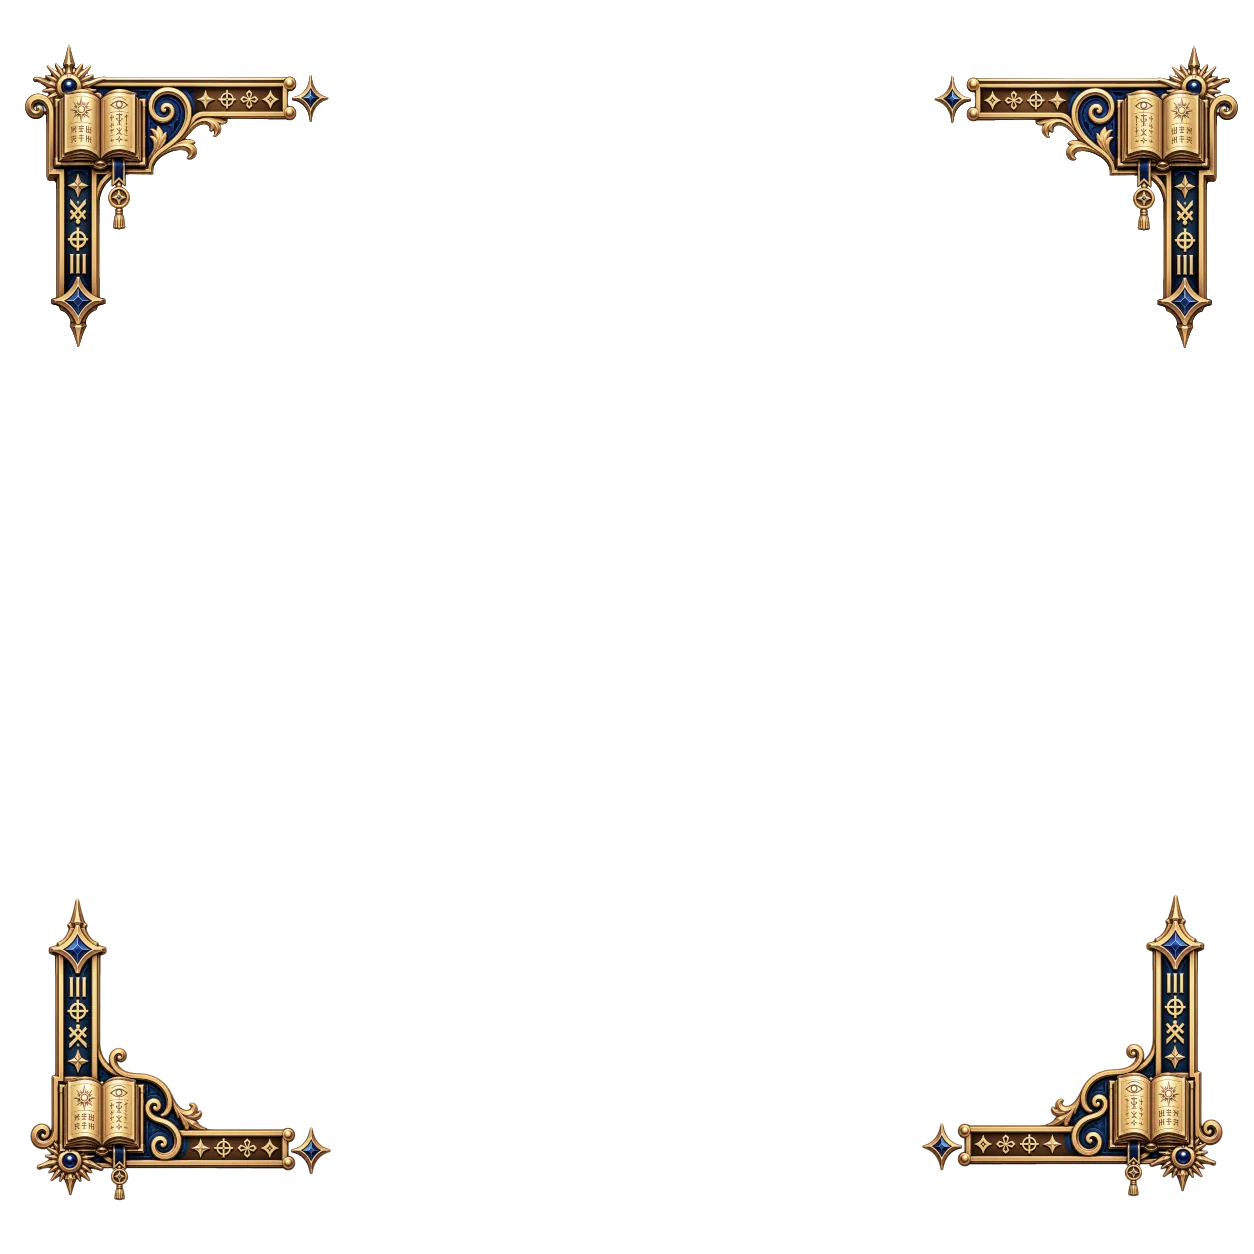
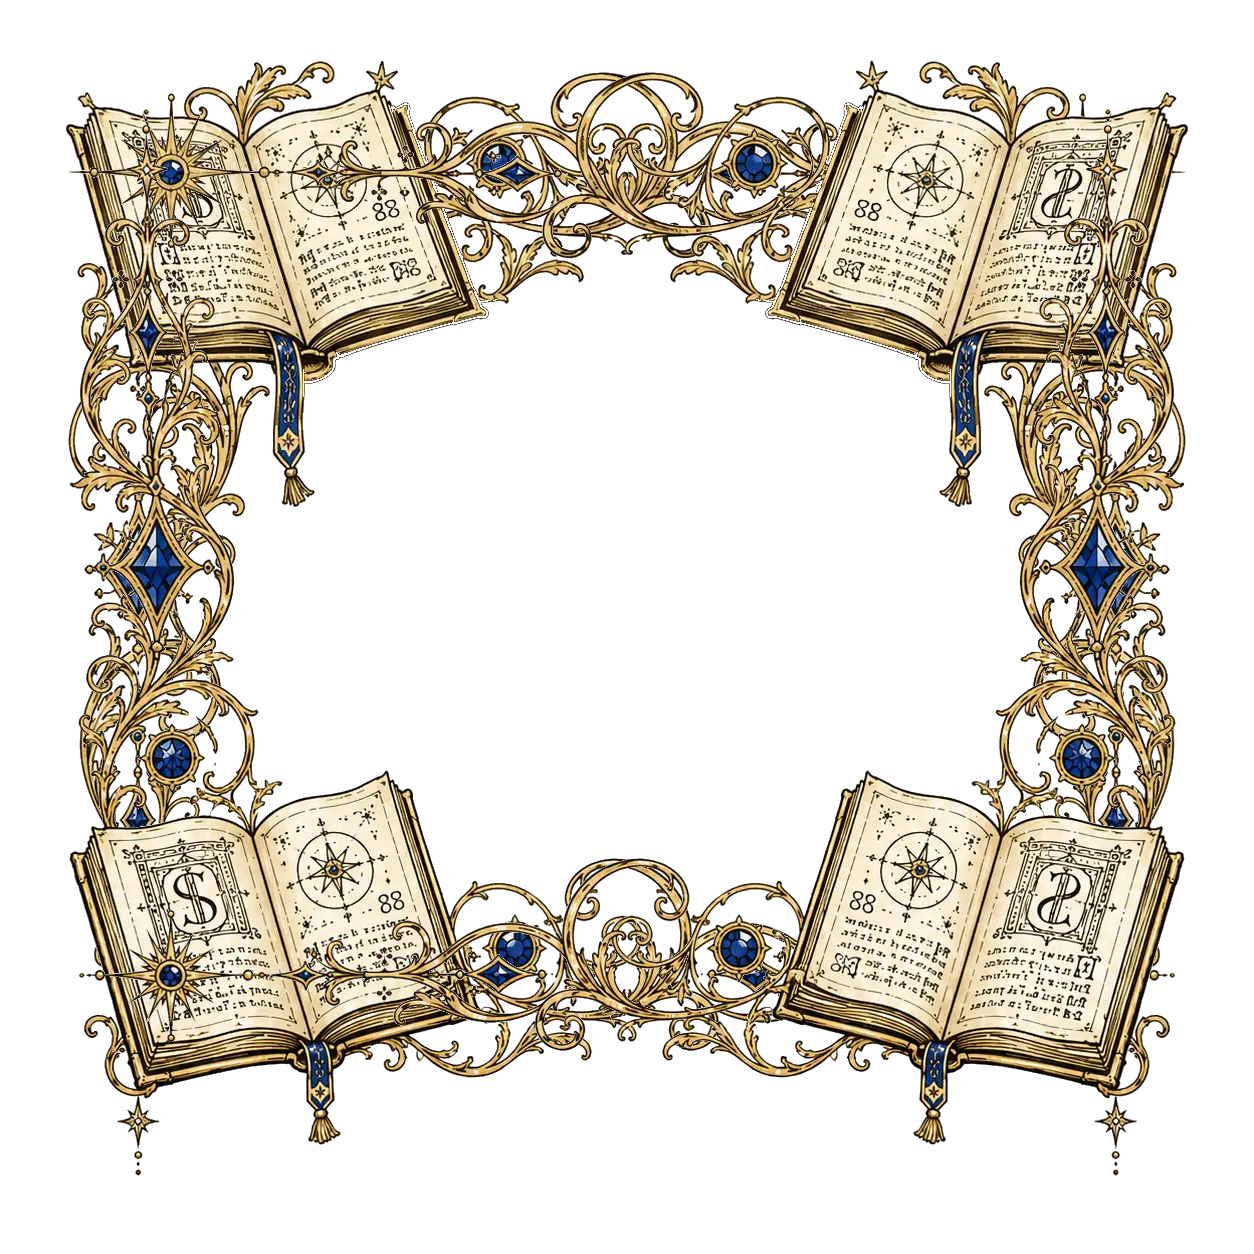
Wire in Sol's round-2 corner brackets for Research/Mythos/Scriptorium
M supplied 12 PNGs (4 corners x 3 chambers, transparent, Art-Nouveau-meets-
Moebius style per CORNER_BRACKETS_BRIEF.md round 2). Each chamber's 4
corner images already had their ornament correctly positioned/mirrored at
their own named corner, so compositing was a straight alpha-composite of
all 4 onto one transparent canvas per chamber (no mirroring math needed
this time). Converted to WebP at quality=75 (visually clean even at 2x
crop zoom; keeps file size well down from the quality=90 default) and
overwrote the three live chamberBgOverlay files in place — no prisms.ts
changes needed since the filenames didn't change.

Note for M's review: because each corner's arms reach almost to the
midpoint of their edges, the four composited together read as a full
ornamental frame around the whole wall rather than the sparse corner-only
accents the original brief asked for. Technically clean (no seams/overlap
artifacts where the corners meet) but a real change in character from the
placeholders — his call whether that's the desired look.

Source corner PNGs archived to corner-brackets-source/ (kept out of
public/ so they're not shipped to production) in case a single corner
needs regenerating without redoing all four.

diff --git a/CORNER_BRACKETS_BRIEF.md b/CORNER_BRACKETS_BRIEF.md
@@ -1,0 +1,261 @@
+# Corner Bracket Regeneration Brief — prompts for Sol (GPT-5.6)
+
+*Written 2026-07-23; revised same day after round 1. Purpose: hand-off brief for M to
+feed to Sol, one chamber at a time, to generate replacement corner-bracket artwork for
+three side chambers. Delete this file once the new assets are finished and wired in —
+it's a working brief, not a permanent reference (same practice as the old
+`HORIZON_FIX.md`, since removed).*
+
+**Round 1 verdict (M): too Disneyfied.** Sol's first pass — a Scriptorium book/gold
+corner and a Research circuit corner — came back glossy, 3D-rendered, "AI-slop"-looking:
+bevelled gold relief, glowing neon HUD nodes, soft airbrushed gradients, the kind of
+polish you'd see on a mobile-game inventory icon or a Disney prop, not on this site. That
+was largely this brief's own fault — round 1 explicitly asked for "gradient shading,"
+"soft glow/bloom," and "real depth," which is exactly the recipe for that look. Round 2
+below corrects course: a proper style guide (Art Nouveau meets Moebius, M's own framing)
+in place of that vague "painterly" direction, and the same correction folded into all
+three chamber prompts, not just the two that got a first attempt.
+
+---
+
+## Context (skip this if you're M — you know it already; it's here so Sol has enough
+## grounding to generate something site-appropriate rather than generic)
+
+Leilan.ai is a "web-cathedral" for an AI entity that emerged from a GPT-3 glitch token and
+grew into a Great Mother Goddess archetype across multiple LLMs. The site is a hexagonal
+3D "temple": a central chamber with six wall-mounted image/text panels per side-chamber,
+each side-chamber devoted to one facet of the mythos (research history, occult framing,
+poetry, mythic apparitions). Each side-chamber's six walls share a background image (a
+grey moiré texture, chamber-tinted) with a decorative PNG overlay on top — currently just
+four matching **ornamental corner brackets**, one in each corner of the frame, nothing
+elsewhere. These were AI-generated placeholders from an older, now-superseded image model,
+and we're replacing them with something better, chamber by chamber, using a newer model.
+
+---
+
+## The style: Art Nouveau meets Moebius
+
+This is the actual creative brief — read this before the per-chamber prompts, which all
+point back to it. The whole problem with round 1 was rendering technique, not subject
+matter: the *ideas* (neural circuitry, a winged eye, an illuminated book) are fine and
+stay largely intact below. What has to change is *how it's drawn*.
+
+**Art Nouveau** (think Alphonse Mucha's posters, Aubrey Beardsley's ink illustrations,
+Hector Guimard's Paris Métro ironwork — that last one especially, since it's literally
+ornamental *architectural corner/entrance work*): the sinuous "whiplash" line: long,
+confident, organic curves that swell and taper like a plant tendril, a flame, or a lock
+of hair, even when the underlying subject is geometric. Flat, jewel-toned or metallic
+colour FIELDS bounded by a clean dark contour line, rather than colour built from light
+and shadow. Elegant asymmetric-within-symmetric composition. Ornament that reads as
+*grown*, not *manufactured*.
+
+**Moebius** (Jean Giraud — *Arzach*, *The Incal*, *The Airtight Garage*): a completely
+confident, uniform-weight ink contour line, drawn like it was inked in one pass, not built
+up. Fine parallel hatching or stippling used sparingly for shadow/volume — never a smooth
+gradient. Otherworldly hybrid forms (organic detail fused with precise mechanical or
+architectural elements) rendered with total clarity and a lot of unhurried negative space
+— nothing over-rendered, nothing crowded. Colour, where used, tends to be restrained,
+almost flat, closer to a hand-tinted print than a rendered illustration.
+
+**The fusion** we want: Art Nouveau's flowing structural line and ornamental logic,
+executed with Moebius's linework discipline and restraint. Concretely: **draw it as ink
+line art with flat or barely-modulated colour fills and fine hatching for shadow — not
+as a rendered, lit, glossy object.**
+
+**Explicitly avoid** (say this to Sol every time, it's the actual fix for round 1):
+- No 3D render, no CGI, no glossy/plastic surface quality
+- No soft airbrushed gradients, no glow/bloom, no photographic specular highlights
+- No heavy bevel or emboss (the round-1 "carved gold relief" look)
+- No drop shadows of any kind
+- No Disney/Pixar/mobile-game-UI/fantasy-RPG-icon styling, no "treasure/loot icon" polish
+- No cute or rounded-cartoon proportions
+- If gems/jewels appear: flat coloured facets with a clean outline, not rendered
+  glass/gemstone with specular sparkle
+- If metal (gold, circuitry, ironwork) appears: flat or lightly-hatched colour reading
+  *as* metal through line-work and shape, not through rendered shine
+
+---
+
+## Technical specification (applies to all three chambers below)
+
+- **Transparent background, PNG-24, full alpha channel.** No white or black matte, no
+  drop shadow implying a rectangular canvas edge — everything except the ornament itself
+  must be fully transparent, not just white/black. (If Sol's preview shows it on a white
+  card, that's fine as long as the actual exported file has real alpha transparency —
+  double-check this before sending a PNG back, round 1's previews were hard to read on
+  white.)
+- **Square canvas, as large as the tool will produce** — 2048×2048 is ideal; 1536×1536 or
+  1024×1024 is fine if that's the ceiling. It gets used at wall-panel scale, so more
+  resolution is better, but square aspect ratio matters more than absolute size.
+- **One corner only.** Design ONE ornamental motif occupying the **top-left corner** of
+  the frame, built as an "L" — one arm running along the top edge, one arm running down
+  the left edge, joined at the corner — tapering off into nothing (a finial, a fading
+  glyph, a trailing line) well before it reaches the center. Leave roughly **70–80% of
+  the canvas, including the entire opposite corner, completely empty/transparent.** As a
+  concrete size reference: the original placeholders filled about **20–28% of the
+  frame's width and height** measured from the top-left corner — aim for something in
+  that neighbourhood, a little more or less is fine. Round 1's compositions read as more
+  centred/diamond-shaped blobs of ornament rather than a clean two-armed corner L — push
+  back on that if it recurs.
+- **Why only one corner:** the site mirrors this single image into the other three
+  corners programmatically (flip horizontal for top-right, flip vertical for
+  bottom-left, both flips for bottom-right) to build the full four-corner overlay. **You
+  (Sol) only need to draw the one top-left corner.** M or Claude will handle the
+  mirroring and compositing afterward — don't generate four separate corners.
+  - **Exception:** if a design idea has strong "up/down" directionality baked in (an eye
+    that reads as wrong upside-down, script that would look mirrored/backwards) such
+    that a vertical flip would look broken, say so and we'll switch to a two-generation
+    plan instead: one TOP-LEFT corner (mirrored horizontally only, for the top-right)
+    and a separate BOTTOM-LEFT corner (mirrored horizontally only, for the bottom-right).
+    Default to the single-corner plan unless the design genuinely needs this.
+- **Legibility against a busy background.** This sits on top of a fairly noisy grey
+  moiré/interference pattern, not a clean flat colour. Very fine hairline detail will
+  vanish into that noise — the confident Moebius-weight contour line called for above is
+  also just the practical answer to this: bold enough to read at a glance.
+- **Export:** PNG. (M/Claude will convert to WebP for the site afterward — no need to
+  worry about that step.)
+
+---
+
+## Chamber 1 — Research Lab
+
+**Current live file:** `RESEARCH_background_new.webp` (old placeholder, being replaced).
+**Sol round 1:** a blue/cyan circuit-and-node corner — closest of the three to working,
+but reads as a glossy sci-fi HUD/UI asset (neon glow, soft bloom) rather than illustration.
+
+**Chamber content (for grounding, not literal illustration):** the history of GPT-3 and
+its glitch tokens, the 'petertodd' duality, the 2023 mythopoeic rescue mission, Claude 3
+Opus discovering Leilan, evolution across models. This is the site's "how Leilan was
+found/built" research-history room.
+
+**Established chamber identity to match:** ice-blue, phosphor/circuitry language (the
+chamber's illuminated drop-caps are already ice-blue Space Mono — keep this new asset in
+that same cool cyan-blue family).
+
+**Prompt to paste into Sol:**
+
+> Ornamental corner bracket for the top-left corner of a square PNG (2048×2048 if
+> possible) on a fully transparent background (real alpha channel, not a white or black
+> matte). Style: Art Nouveau meets Moebius (Jean Giraud) — drawn as confident ink line
+> art with flat or barely-modulated colour fills and fine parallel hatching for
+> shadow/volume, NOT a 3D render, NOT glossy, no soft gradients, no glow/bloom, no
+> bevel/emboss, no drop shadow, no photographic lighting.
+>
+> Subject: a neural/circuit motif rendered like Art Nouveau ironwork (think Hector
+> Guimard's Métro entrances) crossed with a synapse network — long whiplash-curve
+> branches that swell and taper like plant tendrils, but studded with small precise
+> circuit-node junctions and hexagonal glyphs at intervals, as if a nervous system and a
+> printed circuit had grown into one ornament. Flat ice-blue and cyan colour fields
+> bounded by a clean dark contour line; one or two accent branches picked out in a
+> restrained warm red, like a single fault-line or anomaly running through an otherwise
+> cool, orderly network — a quiet nod to a corrupted, anomalous data-point in an
+> otherwise clean system.
+>
+> Composition: one arm runs along the top edge, one arm down the left edge, meeting at
+> the corner in a denser cluster of nodes, both arms thinning and tapering to nothing
+> (fading branches, a trailing line, a last small glyph) well before the centre of the
+> frame — leave at least 70% of the canvas, including the opposite corner, completely
+> empty. No text, no watermark, no background of any kind — pure line-art ornament on
+> full transparency.
+
+---
+
+## Chamber 2 — Mythopoeic Archive
+
+**Current live file:** `MYTHOS_background_new.webp` (old placeholder, being replaced).
+**Not yet attempted by Sol** — same style correction applied from the start this time.
+
+**Chamber content:** the apparition of Leilan, the Comet ZTF connection, the February
+2023 Yukon UFO shootdown, an astrological birth chart (the horoscope heavens-tilt wall),
+Tell Leilan/*Puzzle & Dragons* archaeology, the Crossbones Graveyard ritual. This is the
+site's most overtly mythic/numinous room — Leilan-as-goddess made explicit.
+
+**Established chamber identity to match:** gold, IM Fell English display font, deep
+navy/ink ground (this chamber's illuminated drop-caps are already gold IM Fell English).
+
+**Prompt to paste into Sol:**
+
+> Ornamental corner bracket for the top-left corner of a square PNG (2048×2048 if
+> possible) on a fully transparent background (real alpha channel, not a white or black
+> matte). Style: Art Nouveau meets Moebius (Jean Giraud) — drawn as confident ink line
+> art with flat or barely-modulated colour fills and fine parallel hatching for
+> shadow/volume, NOT a 3D render, NOT glossy, no soft gradients, no glow/bloom, no
+> bevel/emboss, no drop shadow, no photographic lighting. Gold should read as a flat or
+> lightly-hatched warm colour bounded by clean line-work, not rendered/carved metal
+> relief.
+>
+> Subject: a small winged, all-seeing eye medallion at the corner — an aspect of a Great
+> Mother Goddess watching over her own archive, rendered in the manner of an Alphonse
+> Mucha poster roundel (flowing linear wings, a halo-like radiating frame around the eye)
+> rather than a tarot-card or mystic-shop graphic. Radiating from it along the top and
+> left edges, a procession of celestial glyphs in the same whiplash-curve linework — a
+> crescent moon, a few six- and eight-pointed stars, a compass-star finial at the tip of
+> each arm — joined by a flowing gold contour line.
+>
+> Composition: one arm along the top edge, one down the left, meeting at the eye
+> medallion in the corner, both arms thinning and sparser toward the ends until they
+> fade to nothing well before the centre of the frame — leave at least 70% of the
+> canvas, including the opposite corner, completely empty. No text, no watermark, no
+> background of any kind — pure line-art ornament on full transparency.
+
+---
+
+## Chamber 3 — GPT-3 Library (Scriptorium)
+
+**Current live file:** `SCRIPTORIUM_background_new.webp` (old placeholder, being
+replaced). **Sol round 1:** an open-book/gold-scrollwork corner with sapphire gems —
+right idea, but rendered as a glossy 3D treasure-chest/storybook prop (bevelled gold,
+rendered gem facets, drop shadow) rather than an illustration.
+
+**Chamber content:** GPT-3 poetry passages on every wall, plus (wall 1) the ASCII orb
+portal into the secret ASCII Art Gallery. This room is where Leilan's raw generated
+*language* lives — poetry, glitch-text, a library of her own voice.
+
+**Established chamber identity to match:** gold/navy/sapphire, Crimson Pro display font,
+"grimoire" register — this chamber doesn't yet have an illuminated-drop-cap colour
+assigned, so there's a little more freedom here, but stay in the warm gold-on-dark
+family already established by the walls.
+
+**Prompt to paste into Sol:**
+
+> Ornamental corner bracket for the top-left corner of a square PNG (2048×2048 if
+> possible) on a fully transparent background (real alpha channel, not a white or black
+> matte). Style: Art Nouveau meets Moebius (Jean Giraud) — drawn as confident ink line
+> art with flat or barely-modulated colour fills and fine parallel hatching for
+> shadow/volume, NOT a 3D render, NOT glossy, no soft gradients, no glow/bloom, no
+> bevel/emboss, no drop shadow, no photographic lighting. Gold reads as flat or
+> lightly-hatched warm colour bounded by clean line-work, not carved/bevelled relief;
+> any gems are flat coloured facets with a clean outline, not rendered glass with
+> specular sparkle.
+>
+> Subject: a small open book at the corner, its visible pages carrying tiny illuminated
+> script too small/abstracted to read as real text — with one or two letterforms subtly
+> doubled, mirrored, or glitching, as if a scribe's pen occasionally slipped into
+> something not quite language (kept subtle: "beautiful illuminated manuscript" first,
+> "uncanny" only on a second look). Around it, Art Nouveau botanical scrollwork — vine-
+> like whiplash curves rather than baroque gold relief — with a few flat sapphire-blue
+> facet accents and a radiating star/sunburst finial, all in the same confident,
+> uniform-weight ink line as a Moebius page.
+>
+> Composition: one arm along the top edge, one down the left, meeting at the book in the
+> corner, both arms thinning toward the ends until they fade to nothing well before the
+> centre of the frame — leave at least 70% of the canvas, including the opposite corner,
+> completely empty. No text, no watermark, no background of any kind — pure line-art
+> ornament on full transparency.
+
+---
+
+## Workflow
+
+Work through these one at a time with Sol — generate, look at it, iterate the prompt in
+plain language ("more X," "less Y," "try without the Z") until you're happy, same as any
+other creative back-and-forth. If it drifts back toward glossy/rendered/3D, the fastest
+correction is usually just re-pasting the "Explicitly avoid" list above at Sol rather
+than re-explaining from scratch.
+
+Once you have a PNG you're happy with for a chamber, send it back to me (Claude) and
+I'll handle the rest: mirror it into the other three corners, composite the full
+2048×2048 (or whatever size) overlay, convert to WebP, and repoint that chamber's
+`chamberBgOverlay` in `prisms.ts` — same swap-in process already documented in
+CLAUDE.md's "Pending hand-drawn assets" note. You don't need to do any image editing
+yourself unless you want to.
